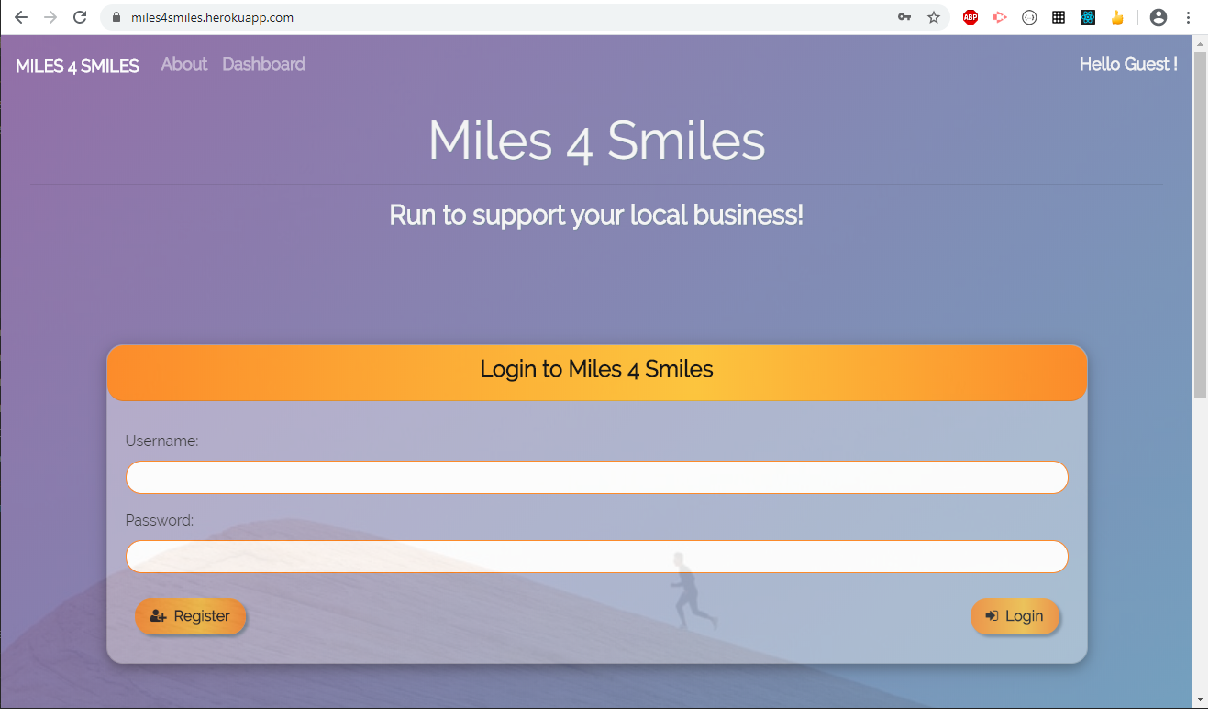
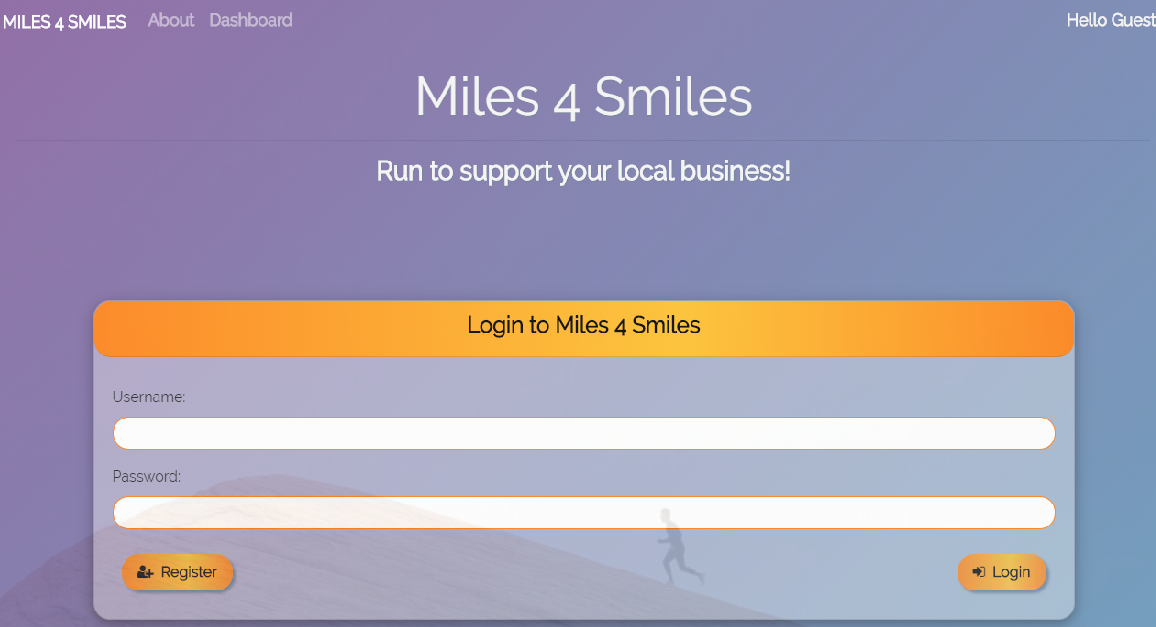
adding new styles

Changed region(s): [[0.0623, 0.4545, 0.9343, 1.0], [0.0, 0.0, 1.0, 1.0], [0.3114, 0.1212, 0.6851, 0.3333]]

diff --git a/src/pages/Contact.js b/src/pages/Contact.js
@@ -6,25 +6,25 @@ const Contact = () => (
         Contact Info
     </div>
     <div className="shadow mt-5" id="contact-div">
-        <table className="table table-dark table-hover text-center">
+        <table className="table table-hover text-center">
           <tbody>
-            <tr className="row-span-2">
+            <tr>
               <td>E-mail:</td>
               <td  className="contact-info-text">
-                  <i className="icon fa fa-envelope"></i> <span>rksharma2679@gmail.com</span>
+                  <i className="icon fa fa-envelope mr-2"></i> <span>rksharma2679@gmail.com</span>
               </td>
             </tr>  
             <tr className="mb-1">
                 <td>LinkedIn</td>
-                <td className="contact-info-text"><a rel="noopener noreferrer" href="https://www.linkedin.com/in/rashmi-sharma9/" target="_blank"><i className="fa fa-linkedin fa-lg"></i> rashmi-sharma</a></td>
+                <td className="contact-info-text"><a rel="noopener noreferrer" href="https://www.linkedin.com/in/rashmi-sharma9/" target="_blank"><i className="fa fa-linkedin fa-lg mr-3"></i> rashmi-sharma</a></td>
             </tr>
             <tr className="mb-1">
                 <td>Github:</td>
-                <td className="contact-info-text"><a rel="noopener noreferrer" href="https://github.com/graphicaction" target="_blank"><i className="fa fa-github fa-lg"></i> Graphicaction</a></td>
+                <td className="contact-info-text"><a rel="noopener noreferrer" href="https://github.com/graphicaction" target="_blank"><i className="fa fa-github fa-lg mr-3"></i> Graphicaction</a></td>
             </tr>   
             <tr className="mb-1">
               <td>Resume:</td>
-              <td className="contact-info-text"><a rel="noopener noreferrer" href="https://docs.google.com/document/d/1r3nR9xcc6rdAjw3IH8IKXN2149Li0D4a2qL1bcTiMcU/edit?usp=sharing" target="_blank"><i className="fa fa-sticky-note"></i> Rashmi Sharma</a></td>
+              <td className="contact-info-text"><a rel="noopener noreferrer" href="https://drive.google.com/file/d/1oxe1W96ayka9npp9I1wFITcd1_ORRCf3/view?usp=sharing" target="_blank"><i className="fa fa-sticky-note mr-3"></i> Rashmi Sharma</a></td>
           </tr>
         </tbody>
                              

diff --git a/src/pages/Home.js b/src/pages/Home.js
@@ -6,7 +6,7 @@ const Home = () => (
         Hello I am Rashmi!
     </h1> 
     <h2 className="my-5">
-        I am a Full-stack developer and UI/UX javascript enthusiast. With Bachelors in computer science degree, coding is my passion.
+        I am a Full-stack developer and UI/UX javascript enthusiast. 
     </h2>
     <h2 className="my-5">
         <i>“Writing code that a computer can understand is easy. Good programmers write semantic code that humans can understand.”</i>

diff --git a/src/App.css b/src/App.css
@@ -15,5 +15,14 @@
 }
 
 .row {
-    height: inherit;
+    min-height: -webkit-fill-available;
+}
+
+tr {
+    line-height: 4rem;
+    font-size: x-large;
+}
+
+td .fa {
+    color:teal;
 }
